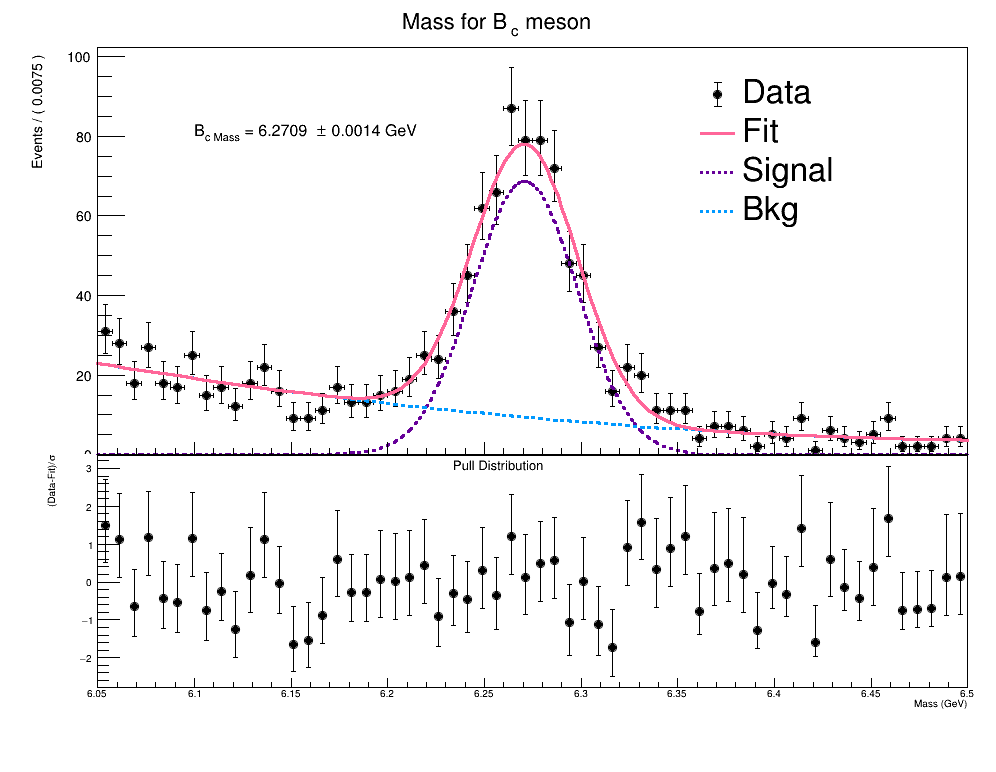
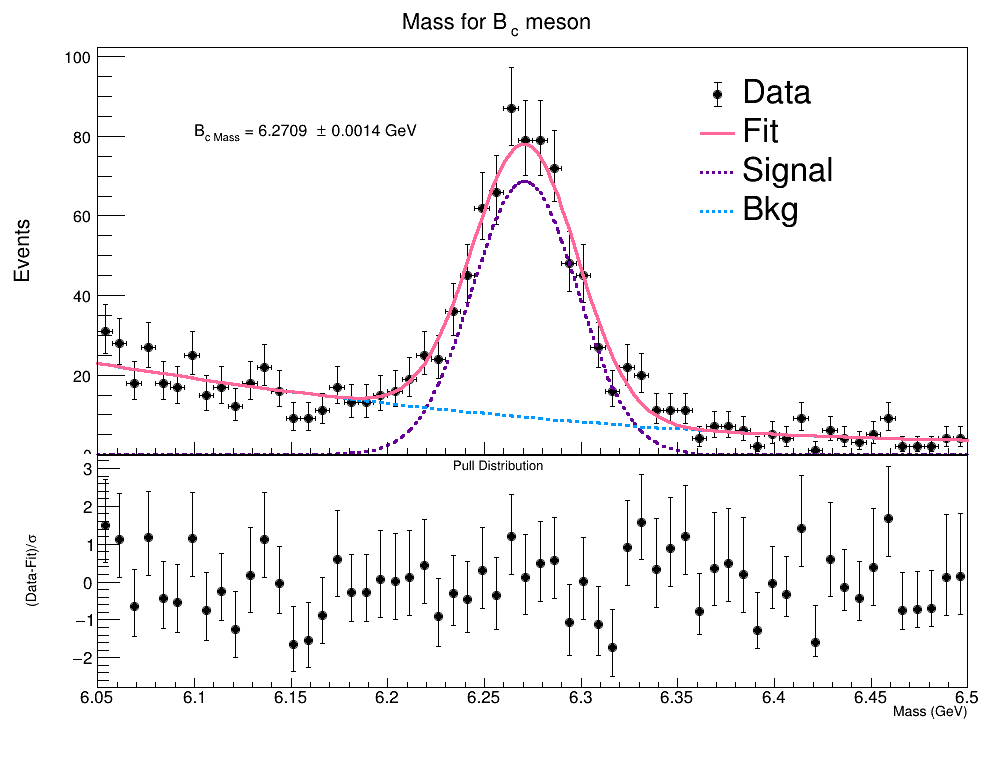
Pulls

diff --git a/Documents/Parcial2/CC_1001010600/toyMonteCarlo.C b/Documents/Parcial2/CC_1001010600/toyMonteCarlo.C
@@ -12,45 +12,45 @@ void toyMonteCarlo(){
     Float_t a0f, a1f, meanf, meanfErr, sigmaf, sigmafErr, nbkgf, nbkgfErr, nsigf, nsigfErr;
 
     ifstream entrada("fitData.txt");
-    if ( !entrada ) 
+    if(!entrada) 
     {
       cout << "No se pudo abrir el archivo entrada fit pr bins" << endl;
       exit( 1 );
     }
-    entrada >> a0f >> a1f >> meanf >> meanfErr >> nbkgf >> nbkgfErr >> nsigf >> nsigfErr;
+    entrada >> a0f >> a1f >> meanf >> meanfErr >> sigmaf >> sigmafErr >> nbkgf >> nbkgfErr >> nsigf >> nsigfErr;
     entrada.close();
 
     RooRealVar m("m", "m", 6.05, 6.5);
 
     //Señal
-    RooRealVar mean("mean", "mean", 6.25, 6.3); mean.setVal(meanf); mean.setError(meanfErr);
+    RooRealVar mean("mean", "mean", 6.26, 6.28); mean.setVal(meanf);
     RooRealVar sigma("sigma", "sigma", 0.005, 0.05); sigma.setVal(sigmaf); sigma.setError(sigmafErr);
     RooGaussian sig("sig", "sig", m, mean, sigma);
 
     //Background
-    RooRealVar a0("a0", "a0", -10,10); a0.setVal(a0f);
-    RooRealVar a1("a1", "a1", -10,10); a1.setVal(a1f);
+    RooRealVar a0("a0", "a0", -1,1); a0.setVal(a0f);
+    RooRealVar a1("a1", "a1", -1,1); a1.setVal(a1f);
 
     RooChebychev bkg("bkg", "bkg", m, RooArgList(a0, a1));
 
     //Numero de eventos
-    RooRealVar nsig("nsig","nsig",1000,0.,13000); nsig.setVal(nsigf); nsig.setError(nsigfErr);
-    RooRealVar nbkg("nbkg","nbkg",2000,0.,13000); nbkg.setVal(nbkgf); nbkg.setError(nbkgfErr);
+    RooRealVar nsig("nsig","nsig", 400,800); nsig.setVal(nsigf); nsig.setError(nsigfErr);
+    RooRealVar nbkg("nbkg","nbkg", 400,800); nbkg.setVal(nbkgf); nbkg.setError(nbkgfErr);
     
     //Pdf total
     RooAddPdf model("model","sig+bkg", RooArgList(sig,bkg), RooArgList(nsig,nbkg));
 
-    //Fit
-    RooRealVar massPull("massPUll", "massPull", -3,3);
-    RooRealVar nsigPull("nsigPull", "nsigPull", -3,3);
-    RooRealVar nbkgPull("nbkgPull", "nbkgPull", -3,3);
+    //DataSets
+    RooRealVar massPull("massPUll", "massPull", -6, 6);
+    RooRealVar nsigPull("nsigPull", "nsigPull", -6, 6);
+    RooRealVar nbkgPull("nbkgPull", "nbkgPull", -6, 6);
 
     RooDataSet mpDset("massPUll", "massPull", RooArgSet(massPull));
-    RooDataSet nsigDset("nsigDset", "nsigDset", RooArgSet(nsigPull));
-    RooDataSet nbkgDset("nbkgDset", "nbkgDset", RooArgSet(nbkgPull));
+    RooDataSet nsigDset("nsigPULL", "nsigPULL", RooArgSet(nsigPull));
+    RooDataSet nbkgDset("nbkgPULL", "nbkgPULL", RooArgSet(nbkgPull));
 
     for(int i=0; i<100; i++){
-      //RooRandom::randomGenerator()->SetSeed(1);
+      RooRandom::randomGenerator()->SetSeed(3);
       RooMsgService::instance().setGlobalKillBelow(RooFit::FATAL);
       RooMsgService::instance().setSilentMode(kTRUE);
       RooMsgService::instance().setStreamStatus(1,false);
@@ -63,20 +63,60 @@ void toyMonteCarlo(){
       RooMsgService::instance().getStream(1).removeTopic(Eval);
       RooMsgService::instance().Print();
 
-      RooDataSet *toyData = model.generate(RooArgSet(m), Extended(kTRUE));
-      RooFitResult* result = model.fitTo(*toyData, Extended(kTRUE), Save(kTRUE));
+      RooDataSet* toyData = model.generate(RooArgSet(m), Extended(kTRUE));
+      RooFitResult* result = model.fitTo(*toyData, Extended(kTRUE), Minos(kFALSE), Save(kTRUE));
 
       massPull.setVal((mean.getVal() - meanf) / mean.getError());
       mpDset.add(RooArgSet(massPull));
 
-      nsigDset.add(RooArgSet((nsig.getVal() - nsigf) / nsig.getError()));
-      nbkgDset.add(RooArgSet((nbkg.getVal() - nbkgf) / nbkg.getError()));
+      nsigPull.setVal((nsig.getVal() - nsigf) / nsig.getError());
+      nsigDset.add(RooArgSet(nsigPull));
+
+      nbkgPull.setVal((nbkg.getVal() - nbkgf) / nbkg.getError());
+      nbkgDset.add(RooArgSet(nbkgPull));
     }
 
-    TCanvas* c2 = new TCanvas("c2", "c2", 800, 600);
-    RooPlot* mframe2 = massPull.frame();
+    //Pull masa
+    RooRealVar masPullMean("masPullMean", "masPullMean", 0, -.5, .5);
+    RooRealVar massPullSigma("massPullSigma", "massPullSigma", 1, 0.5, 1.5);
+    RooGaussian massPullGauss("massPullGauss", "massPullGauss", massPull, masPullMean, massPullSigma);
+    massPullGauss.fitTo(mpDset, Extended(kTRUE), Save(kTRUE));
+
+    //Pull nsignal
+    RooRealVar sigPullMean("sigPullMean", "sigPullMean", 0, -.5, .5);
+    RooRealVar sigPullSigma("sigPullSigma", "sigPullSigma", 1, 0.5, 1.5);
+    RooGaussian sigPullGauss("sigPullGauss", "sigPullGauss", nsigPull, sigPullMean, sigPullSigma);
+    sigPullGauss.fitTo(nsigDset, Extended(kTRUE), Save(kTRUE));
+
+    //Pull nsignal
+    RooRealVar bkgPullMean("bkgPullMean", "bkgPullMean", 0, -.5, .5);
+    RooRealVar bkgPullSigma("bkgPullSigma", "bkgPullSigma", 1, 0.5, 1.5);
+    RooGaussian bkgPullGauss("bkgPullGauss", "bkgPullGauss", nbkgPull, bkgPullMean, bkgPullSigma);
+    bkgPullGauss.fitTo(nbkgDset, Extended(kTRUE), Save(kTRUE));
+
+    TCanvas* c2 = new TCanvas("c2", "c2", 1400, 700);
+    TPad *pad1 = new TPad("p1", "", 0.01,0.05,0.32, 0.99); pad1->Draw();
+    TPad *pad2 = new TPad("p2", "", 0.33,0.05,0.65, 0.99); pad2->Draw();
+    TPad *pad3 = new TPad("p3", "", 0.67,0.05,0.99, 0.99); pad3->Draw();
+
+    pad1->cd();
+    RooPlot* mframe2 = massPull.frame(-6, 6, 30);
     mpDset.plotOn(mframe2);
+    massPullGauss.plotOn(mframe2, LineColor(kBlue-9));
     mframe2->Draw();
+
+    pad2->cd();
+    RooPlot* sframe = nsigPull.frame(-6, 6, 30);
+    nsigDset.plotOn(sframe);
+    sigPullGauss.plotOn(sframe, LineColor(kBlue-9));
+    sframe->Draw();
+
+    pad3->cd();
+    RooPlot* bframe = nbkgPull.frame(-6, 6, 30);
+    nbkgDset.plotOn(bframe);
+    bkgPullGauss.plotOn(bframe, LineColor(kBlue-9));
+    bframe->Draw();
+
     c2->Draw();
     c2->SaveAs("./plots/monteCarlo.png");
 }

diff --git a/Documents/Parcial2/CC_1001010600/fitData.C b/Documents/Parcial2/CC_1001010600/fitData.C
@@ -97,6 +97,11 @@ void fitData(){
 
     mframe->SetTitle("Mass for B_{c} meson");
     mframe->Draw();
+    mframe->SetYTitle("Events");
+    mframe->GetYaxis()->CenterTitle();   
+    mframe->SetTitleSize(0.05, "Y");
+    mframe->SetLabelSize(0.04,"XY");
+
     legMass->Draw();
 
     auto mtext = new TLatex();
@@ -109,6 +114,9 @@ void fitData(){
     RooPlot* frame2 = MASS.frame(Title("Pull Distribution")) ;
     frame2->addPlotable(massPull,"P") ;
     frame2->SetYTitle("(Data-Fit)/#sigma");
+    frame2->SetTitleSize(0.05, "XY");
+    frame2->GetYaxis()->CenterTitle();  
+    frame2->SetLabelSize(0.06,"XY"); 
     frame2->Draw();
     
     c->Draw();
